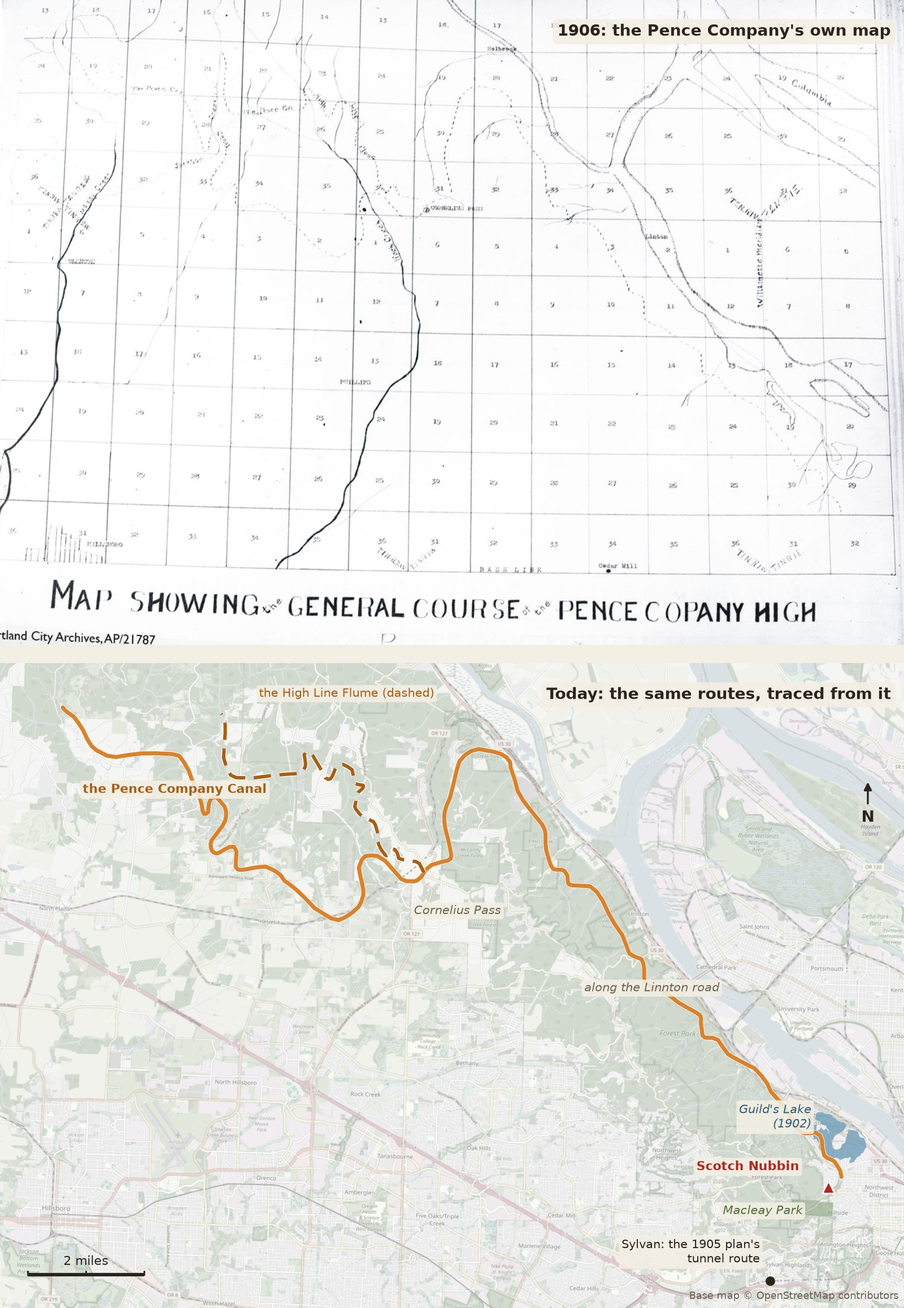
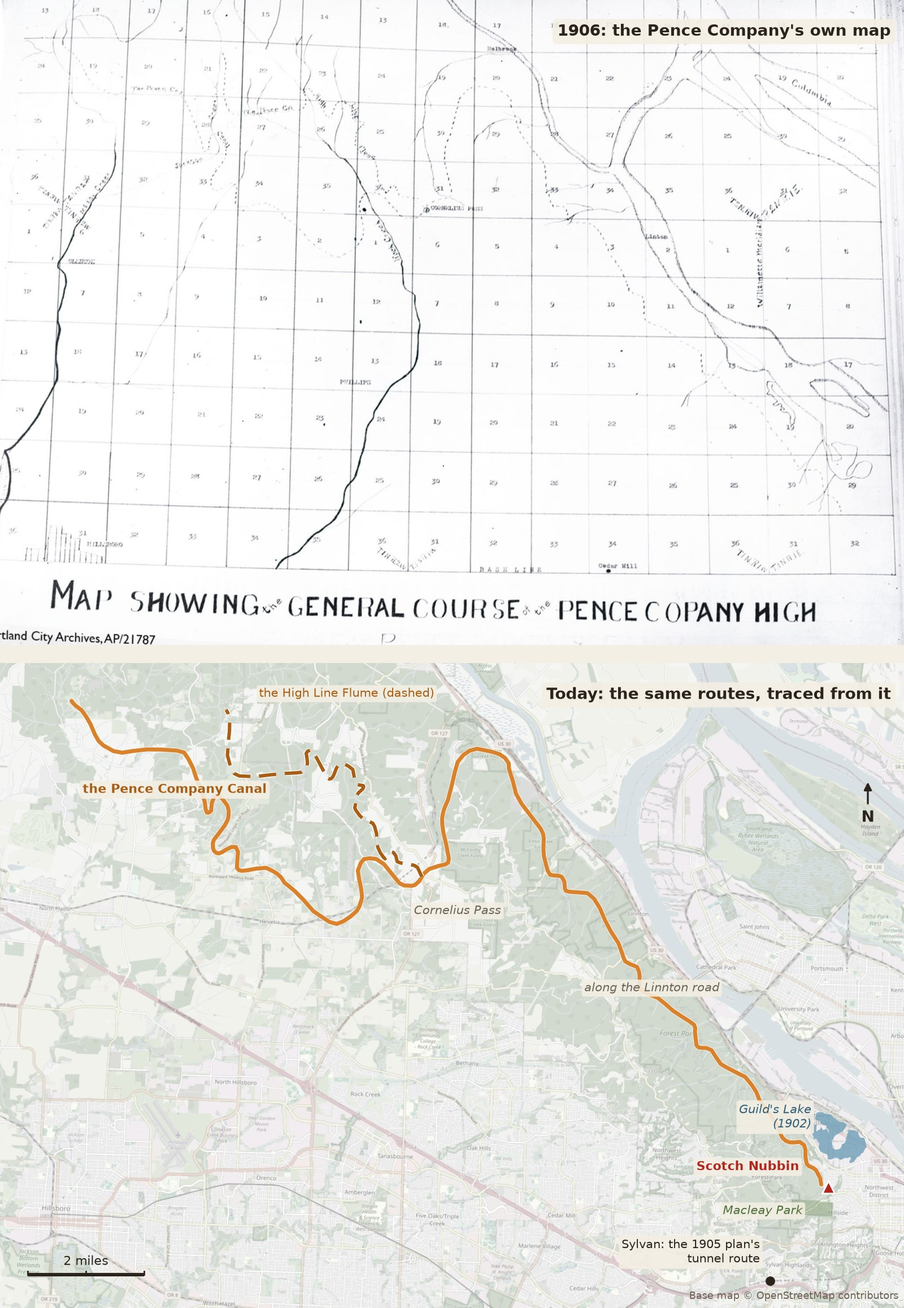
Figure 2.2: use the corrected (SAIL-corner) trace of the 1906 routes

diff --git a/stories/pence/index.html b/stories/pence/index.html
@@ -137,7 +137,8 @@ course of the Pence Company High Line Flume and the Pence Company Canal", drawn 
 Bottom: the same ground today, in the same frame, with the two routes traced from it: the canal from its intakes on the
 Washington County creeks, the High Line Flume (dashed), the crossing at Cornelius Pass and the long run south along the
 Linnton road to Balch Gulch, by the Scotch Nubbin. The 1905 plan had brought the water further south, by tunnels under
-Sylvan. The old map is fitted to the section corners, to within about 340 feet. City of Portland Archives,
+Sylvan. The old map is fitted to the section corners, to within about 340 feet; the traced routes are placed more
+closely, on 33 section corners from the county's survey records. City of Portland Archives,
 A2009-009.3473 (AP/21787); bottom panel made for this story, with the 1902 lake outline and the 1897 boundary of
 Macleay Park. Base map © OpenStreetMap contributors. <a href="../../site/#pdx-archives-a2009-009-3473">Catalogue entry</a></figcaption></figure>
 

diff --git a/scripts/figures/pence_ch2.py b/scripts/figures/pence_ch2.py
@@ -5,7 +5,7 @@ r"""Figures for the Pence story, chapter 2 (the big idea, 1905).
 Reads the research project (lewis-clark-1905) read-only; writes stories/pence/figures/ch2-*.jpg.
   ch2-ditch-1905   Sunday Oregonian 21 May 1905 p. 31, "Lafe Pence's Ditch and What He Purposes to Accomplish" (as printed)
   ch2-works-map    the Pence Company Canal and High Line Flume as mapped in 1906 (City Archives A2009-009.3473; the
-                   user's hand trace, expo-model.gpkg pence_canal_trace_1906_hand), on a muted OpenStreetMap base, with
+                   user's hand trace moved by their 33 SAIL-corner GCPs, expo-model.gpkg pence_canal_trace_1906_hand_tps), on a muted OpenStreetMap base, with
                    the 1902 lake, Macleay Park, the Scotch Nubbin and Sylvan (the 1905 plan's tunnel route)
 """
 import json
@@ -103,7 +103,7 @@ def works_map():
         x, y = poly.exterior.xy
         ax.fill(x, y, color="#6f8f5a", alpha=0.35, lw=0)
     # the 1906 routes (user's trace)
-    m, _, g, d = read(P / "qgis" / "expo-model.gpkg", layer="pence_canal_trace_1906_hand")
+    m, _, g, d = read(P / "qgis" / "expo-model.gpkg", layer="pence_canal_trace_1906_hand_tps")
     names = dict(zip(m["fields"], d))["name"]
     ends = {}
     for q, n in zip(from_wkb(g), names):

diff --git a/stories/pence/story.md b/stories/pence/story.md
@@ -103,7 +103,8 @@ course of the Pence Company High Line Flume and the Pence Company Canal", drawn 
 Bottom: the same ground today, in the same frame, with the two routes traced from it: the canal from its intakes on the
 Washington County creeks, the High Line Flume (dashed), the crossing at Cornelius Pass and the long run south along the
 Linnton road to Balch Gulch, by the Scotch Nubbin. The 1905 plan had brought the water further south, by tunnels under
-Sylvan. The old map is fitted to the section corners, to within about 340 feet. City of Portland Archives,
+Sylvan. The old map is fitted to the section corners, to within about 340 feet; the traced routes are placed more
+closely, on 33 section corners from the county's survey records. City of Portland Archives,
 A2009-009.3473 (AP/21787); bottom panel made for this story, with the 1902 lake outline and the 1897 boundary of
 Macleay Park. Base map © OpenStreetMap contributors. [Catalogue entry](cat:pdx-archives-a2009-009-3473)
 :::
